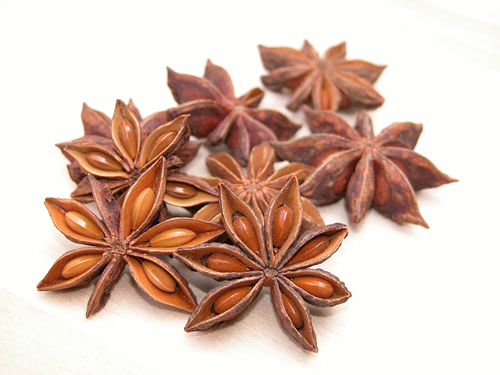
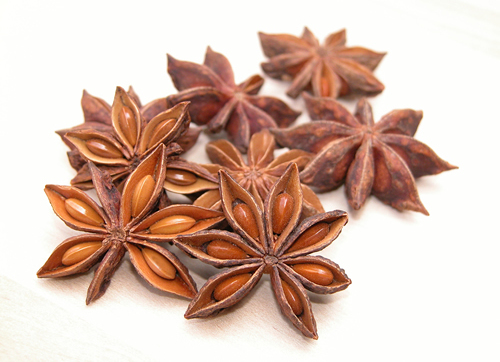
doc: minor adjustments to website

diff --git a/site/index.html b/site/index.html
@@ -14,7 +14,7 @@
     #menu li { margin: 5 5; }
     #menu a { text-decoration: none; color: brown; }
     #menu a:hover { text-decoration: underline; }
-    #logo { clear: both; text-align: center;}
+    #logo { clear: both; text-align: center; }
     #footer { color: #999; text-align: center; font-size: 10pt; margin-top: 30;  letter-spacing: 3;}
     #addiv { width: 900px; margin: 30 auto; text-align: center; }
   </style>
@@ -35,6 +35,7 @@
         class Song
           include Anise
           attr :title,  String, :size => 50
+          attr :artist, String
           attr :length, Integer
         end
       </code></pre>
@@ -42,16 +43,17 @@
 
     <div id="menu">
       <ul>
-        <li><a href="rdoc/index.html">RDocs</a></li>
-        <li><a href="qedoc/index.html">QEDocs</a></li>
-        <li><a href="http://github.com/rubyworks/anise">Github</a></li>
-        <li><a href="http://rubyworks.github.com">Rubyworks</a></li>
-        <li><a href="http://groups.google.com/group/rubyworks-mailinglist">GoggleGroup</a></li>
+        <li><a href="http://wiki.github.com/rubyworks/anise">Documentation</a></li>
+        <li><a href="rdoc/index.html">API Reference</a></li>
+        <li><a href="qedoc/index.html">Demostrandum</a></li>
+        <li><a href="http://groups.google.com/group/rubyworks-mailinglist">Mailing List</a></li>
+        <li><a href="http://github.com/rubyworks/anise">Development</a></li>
+        <li><a href="http://rubyworks.github.com">RubyWorks</a></li>
       </ul>
     </div>
 
     <div id="logo">
-      <img src="assets/images/star-anise.jpg" align="center"/>
+      <img src="assets/images/star-anise.jpg" align="center" style="margin-top: -10px;"/>
     </div>
 
     <div id="footer">
